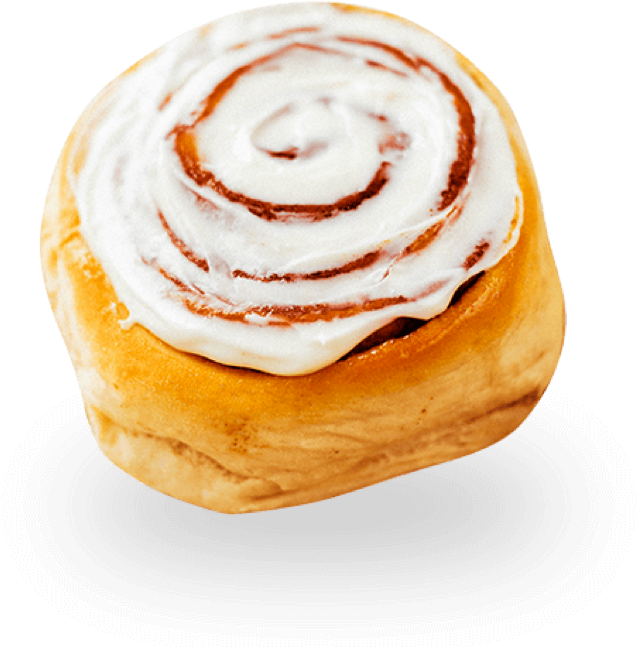
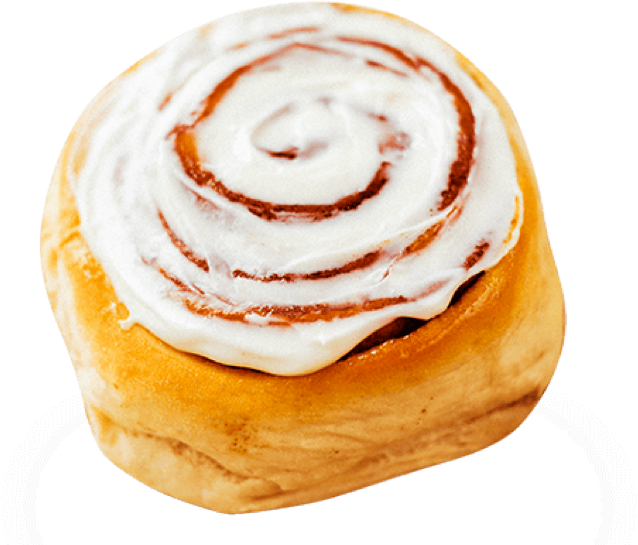
able to swap image based on glazing

diff --git a/assgn6/index.js b/assgn6/index.js
@@ -13,15 +13,20 @@ Bun.flavor = "Original Bun";
 //Glazing section
 function none(){
     Bun.glazing = "none";
+    document.getElementById("productDisplay").src="img/bun.png";
 }
 function vanilla(){
     Bun.glazing = "vanilla";
+    document.getElementById("productDisplay").src="img/original_vanilla.png";
+
 }
 function sugar(){
     Bun.glazing = "sugar";
+    document.getElementById("productDisplay").src="img/original_sugar.png";
 }
 function chocolate(){
     Bun.glazing = "chocolate";
+    document.getElementById("productDisplay").src="img/original_chocolate.png";
 }
 
 function addGlazing(){
@@ -73,9 +78,10 @@ function getCart(){
         var item = document.createElement("div");
         item.setAttribute("class","product");
         item.setAttribute("id","item"+i);
-        //add img
+        //add product image
         var imgNode = document.createElement('img');
-        imgNode.setAttribute("src","img/bun.png");
+        //img source based on glazing
+        imgNode.setAttribute("src","img/original_"+glazing+".png");
         //create secondary div
         var smallDiv = document.createElement('div');
         //display flavor

diff --git a/assgn6/original.html b/assgn6/original.html
@@ -30,7 +30,7 @@
         <h1>ORIGINAL BUN</h1>
         <div class="productDescription">
             <!-- left side -->
-            <img src="img/bun.png" alt="">
+            <img src="img/bun.png" alt="" id="productDisplay">
             <div class="text">
                 <!-- right side -->
                 <span class="price"><h3>$3.5</h3></span>

diff --git a/assgn6/cart.html b/assgn6/cart.html
@@ -49,7 +49,6 @@
                 <button id="delete" onclick="deleteItem()"><i class="far fa-trash-alt"></i></button>
             </div> -->
         </div>
-        </div>
         <div class="orderSummary">
             <div>
                 <h3>Order Summary</h3>
